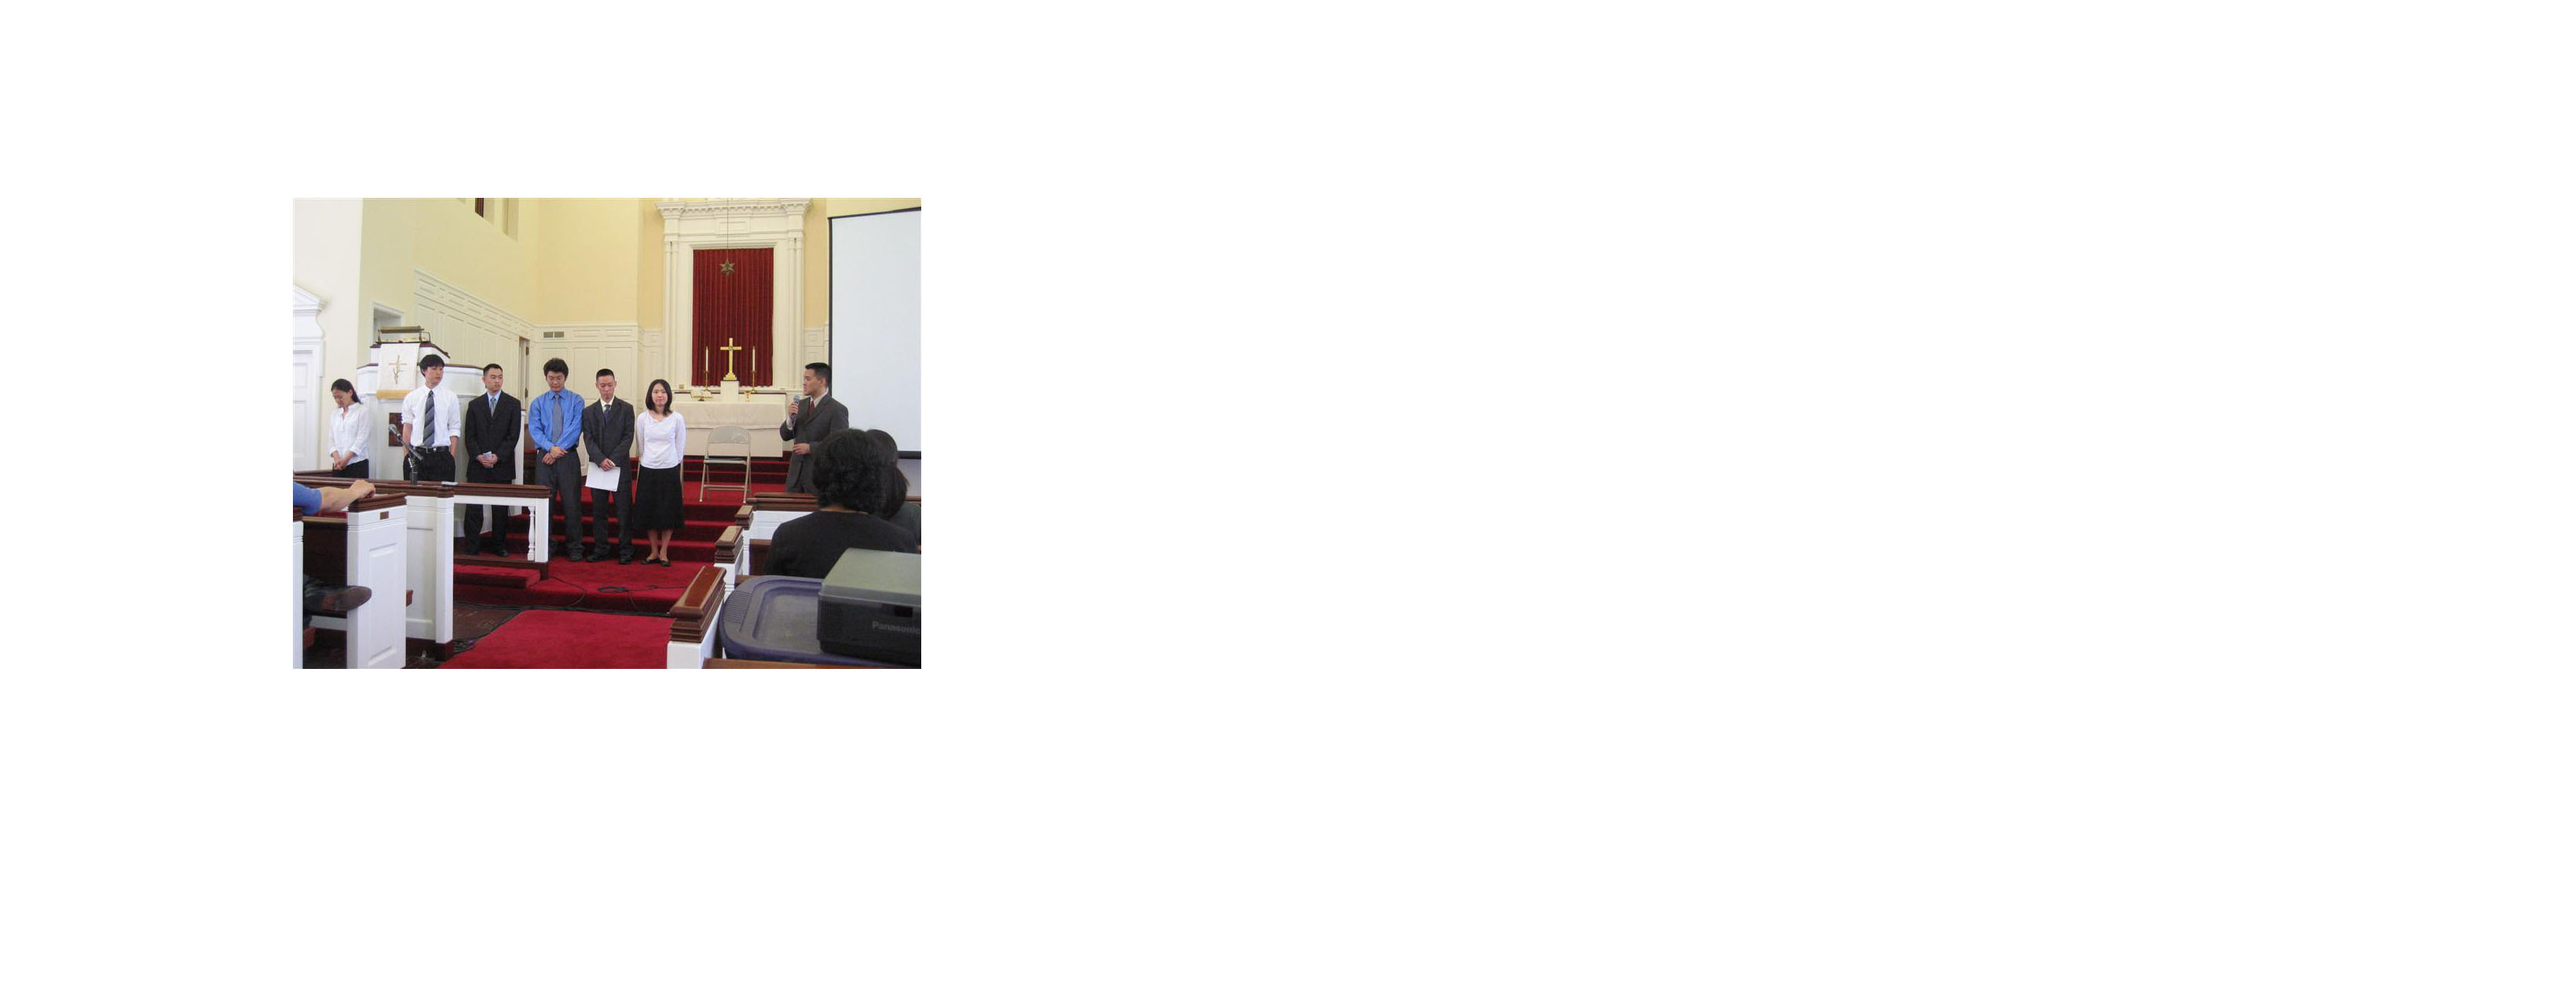
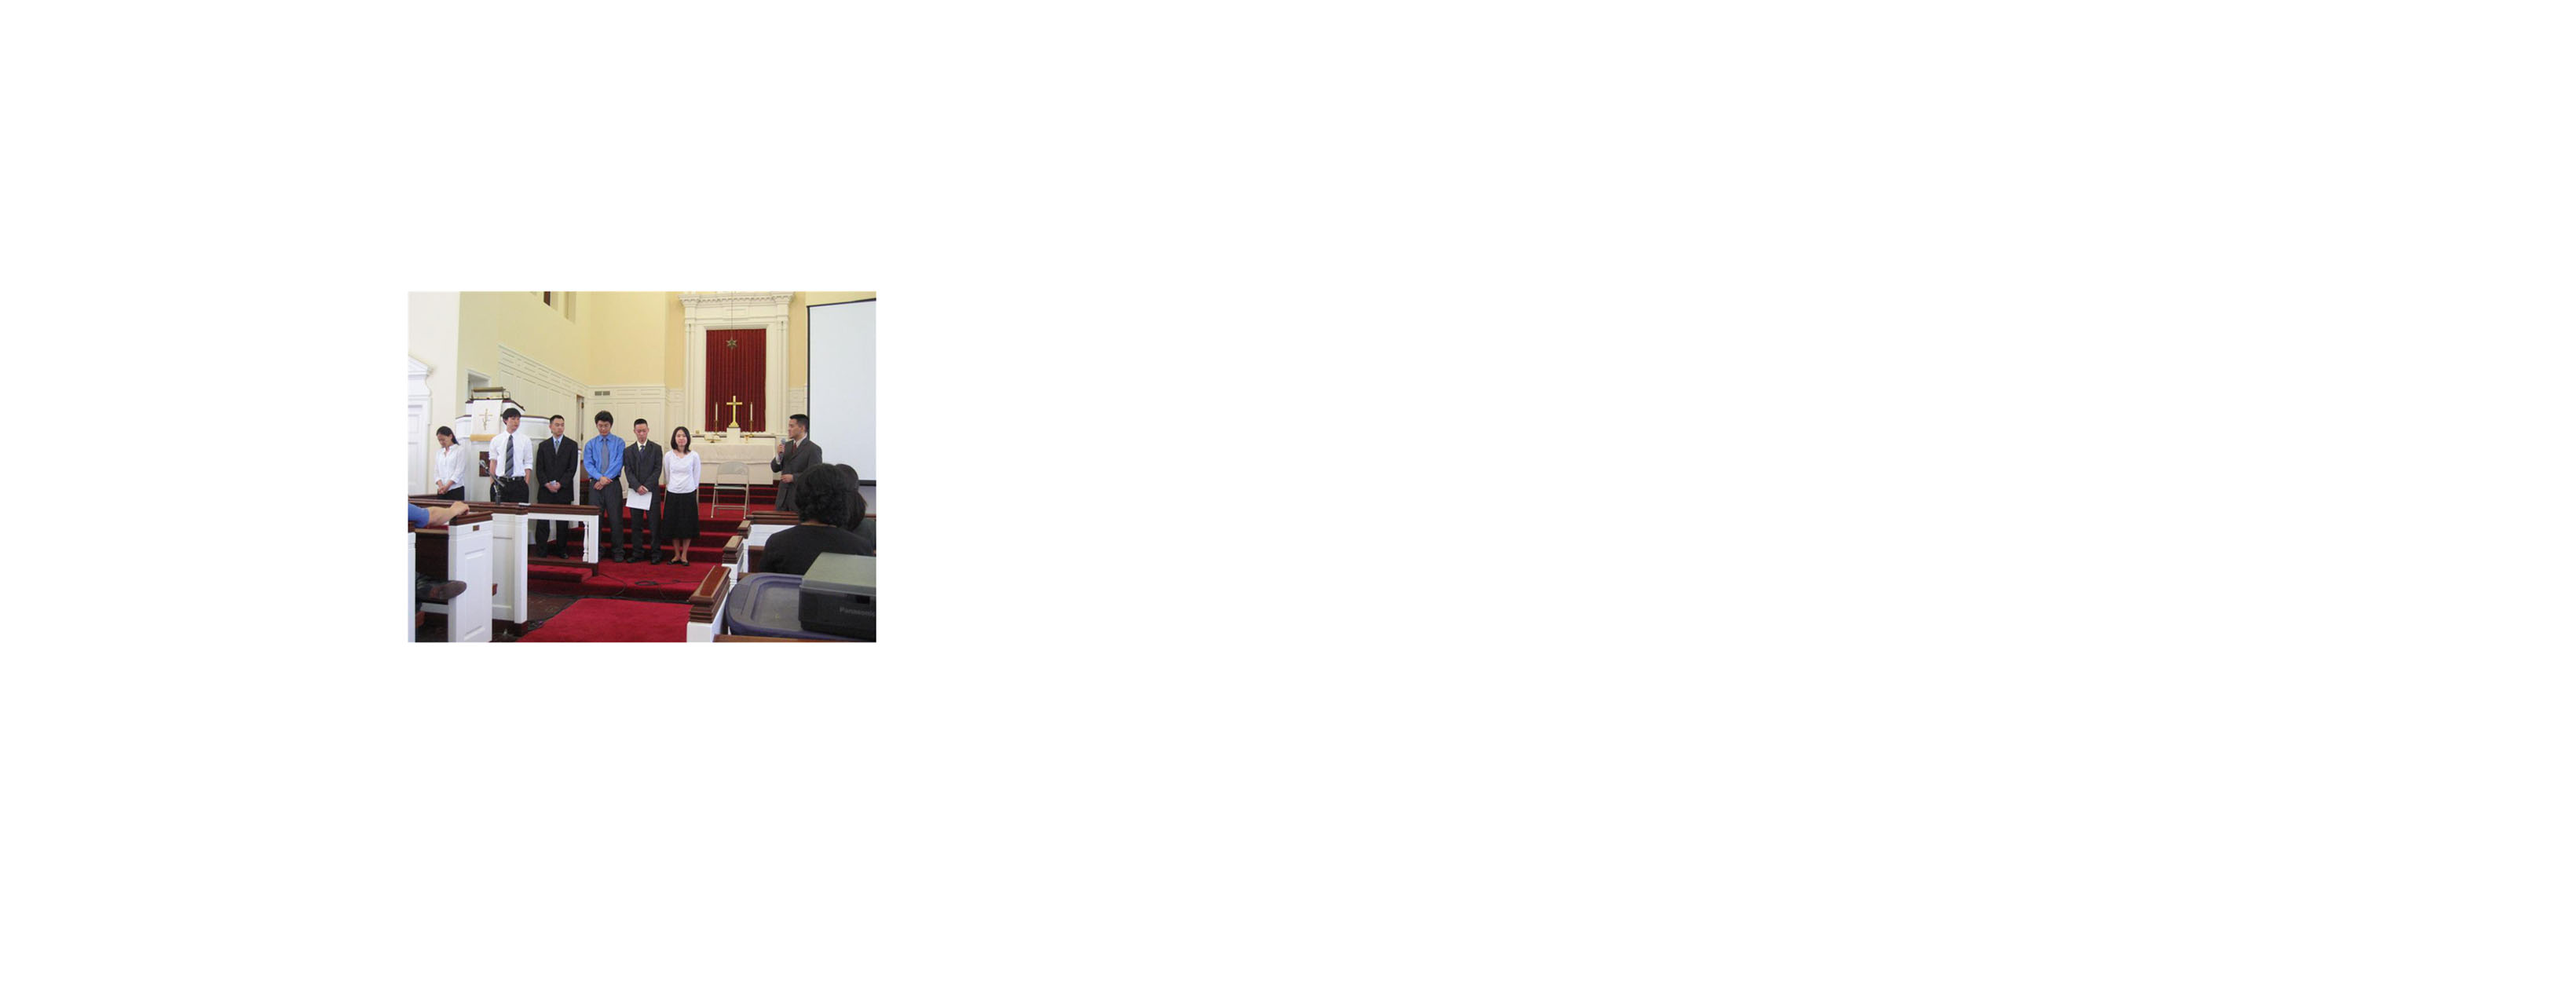
updates

Changed region(s): [[0.0933, 0.1848, 0.3732, 0.6777]]

diff --git a/story.html b/story.html
@@ -71,29 +71,29 @@
 		background-size: 100% auto;
 		position: relative;
 		float: left;
-		padding: 10vw 0 5vw 0;
+		padding: 10vw 0 0vw 0;
 	}
 
 	.full_container#story_block_2 {
-		background: url('images/story3.JPG') no-repeat center center;
+		background: url('images/story3.JPG') no-repeat top center;
 		-webkit-background-size: contain;
 		-moz-background-size: contain;
 		-o-background-size: contain;
 		background-size: 100% auto;
 		position: relative;
 		float: left;
-		padding: 5vw 0 5vw 0;
+		padding: 10vw 0 7vw 0;
 	}
 
 	.full_container#story_block_3 {
-		background: url('images/story2.jpg') no-repeat center center;
+		background: url('images/story2.jpg') no-repeat top center;
 		-webkit-background-size: contain;
 		-moz-background-size: contain;
 		-o-background-size: contain;
 		background-size: 100% auto;
 		position: relative;
 		float: left;
-		padding: 5vw 0 200px 0;
+		padding: 10vw 0 200px 0;
 	}
 
 
@@ -217,7 +217,7 @@
 			<div class="three column">
 				<p></p>
 			</div>
-			<div class="four column">
+			<div class="five column">
 				<p class="emphasis"><i>On August 15, 2004</i></p>
 				<p>Journey Church’s doors opened for its very first Sunday service.  The Lord gave Journey this mission:  To multiply, mobilize, and mature followers of Jesus Christ in a church planting movement.</p>
 				<p>Since then, God has used Journey to reach the campuses of Georgia Tech, Emory University, Georgia State University, and Oxford College.  Unexpectedly, as college students have graduated, many felt God call them to plant roots in Atlanta and build up the body at Journey.  This was vital to Journey’s transformation from a solely college church to a multi-generational church with working professionals and families.</p>
